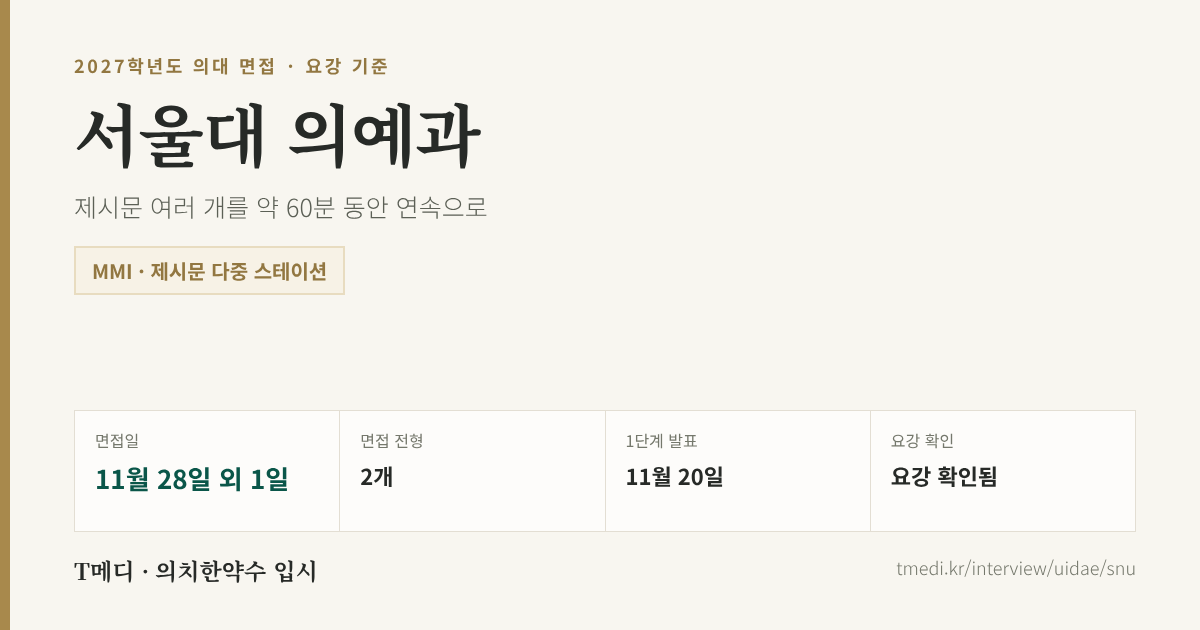
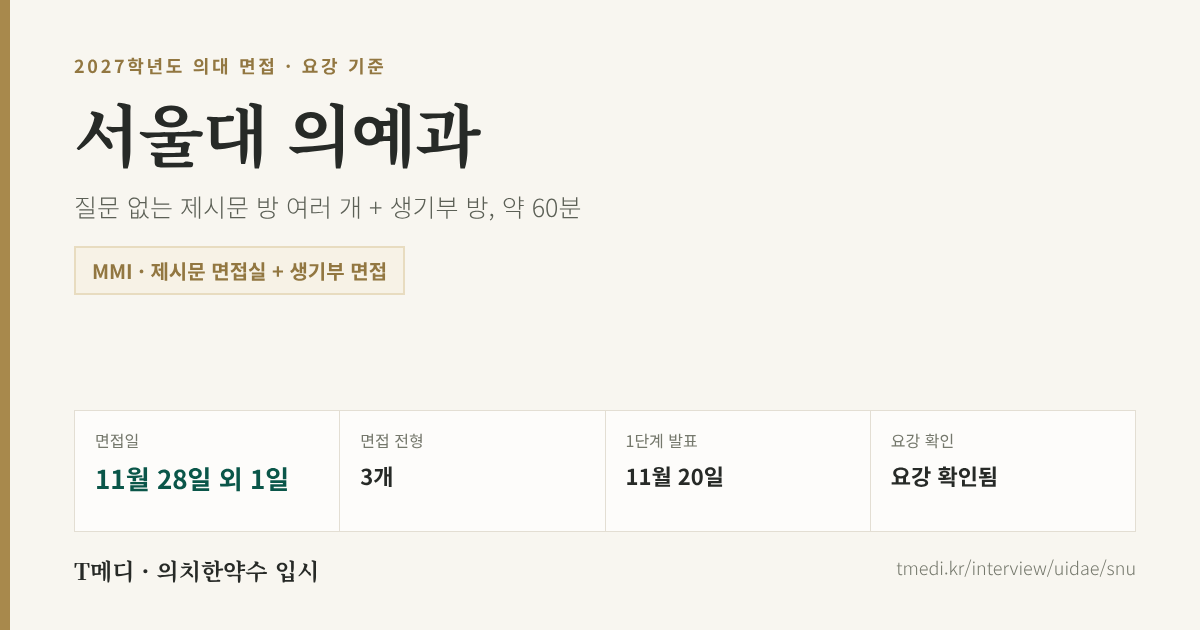
feat(medi): 서울대 의대 — 서류(생기부) 기반 면접 절 신설 + 전형별 비교표 + 기회균형 전형
2027 수시 안내 원문 재확인(2026-11-10)과 보도 확인을 반영했다.
- 서류(생기부) 기반 면접 절: 세 전형 모두 서류 면접실이 따로 있다는 요강 문구(pp.15·23·41),
  의과대학은 '서류내용 확인·학업 소양' 대신 '자질, 적성과 인성'으로 묶은 점, 시간(보도 10분 내외 vs
  기고 18~20분), 26학번 의예과 합격생이 실제 받은 질문(실험 기법을 쓴 이유·알게 된 것·추가로
  궁금한 것), 보도된 질문 유형 + 생기부 항목별 예상 질문과 준비(세특·독서·봉사·지원동기·어려움·일관성)
- 전형별 비교표: 모집인원 39·50·7, 1단계 배수, 2단계 비율, 수능 최저, 발표·면접일, 동점자 처리
  (일반은 면접 순), 면접 방식 문구는 세 전형이 같음. 통합 6년제(p.7)
- 기회균형특별전형(사회통합) 트랙 추가(11.20 발표 → 12.5 면접, 2배수, 70+30)
- 일반전형 요약 줄 오류 정정('2단계 면접 100%' → '1단계 성적 100 + 면접 및 구술고사 100')
- 확인되지 않은 '학생부 10분 · 제시문 2+8분 · 인성1+적성2 · 총 30분' 구성은 싣지 않고 자료의 한계에 적음
- 요약 카드(og/univ/snu.png) 재생성 — 새 제목·형식·면접 전형 3개

Claude-Session: https://claude.ai/code/session_019pnjwjRf8Midm8VYbHCu1f

diff --git a/app/interview/_univ-gichul.tsx b/app/interview/_univ-gichul.tsx
@@ -1,5 +1,5 @@
 import Link from "next/link";
-import { ArrowRight, BookOpenCheck, DoorOpen, FileSearch, ListChecks, Microscope, TrendingUp, Users } from "lucide-react";
+import { ArrowRight, BookOpenCheck, DoorOpen, FileSearch, FileText, ListChecks, Microscope, Table2, TrendingUp, Users } from "lucide-react";
 import { PromoSection } from "../_site/components";
 import {
   GICHUL_FIELD_LABEL,
@@ -286,6 +286,35 @@ export function UnivGichulBlock({ u, field }: { u: UnivGichul; field: GichulFiel
             {b.format2027}
           </div>
         )}
+        {b.table && (
+          <div className="mx-auto mb-10 max-w-4xl">
+            <p className="eyebrow flex items-center gap-2 text-brass-600">
+              <Table2 className="h-3.5 w-3.5" strokeWidth={1.75} />
+              {b.table.title}
+            </p>
+            <div className="mt-4 overflow-x-auto">
+              <table className="w-full min-w-[36rem] border-collapse text-left text-[13px]">
+                <thead>
+                  <tr className="border-b border-hair-strong text-ink-500">
+                    {b.table.head.map((h) => (
+                      <th key={h} className="py-3 pr-4 font-medium">{h}</th>
+                    ))}
+                  </tr>
+                </thead>
+                <tbody className="font-light text-ink-700">
+                  {b.table.rows.map((r, i) => (
+                    <tr key={i} className="border-b border-hair align-top">
+                      {r.map((c, j) => (
+                        <td key={j} className={`py-3 pr-4 ${j === 0 ? "w-28 font-medium text-ink-900" : ""}`}>{c}</td>
+                      ))}
+                    </tr>
+                  ))}
+                </tbody>
+              </table>
+            </div>
+            {b.table.note && <p className="mt-3 text-[12px] font-light leading-[1.7] text-ink-500">{b.table.note}</p>}
+          </div>
+        )}
         {(b.structure?.length ?? 0) > 0 && (
           <div className="mx-auto mb-10 max-w-4xl">
             <p className="eyebrow flex items-center gap-2 text-brass-600">
@@ -333,6 +362,56 @@ export function UnivGichulBlock({ u, field }: { u: UnivGichul; field: GichulFiel
                 </li>
               ))}
             </ol>
+          </div>
+        )}
+        {b.docInterview && (
+          <div className="mx-auto mb-12 max-w-4xl border-2 border-jade-600/40 bg-white px-6 py-7 sm:px-8">
+            <p className="eyebrow flex items-center gap-2 text-jade-700">
+              <FileText className="h-3.5 w-3.5" strokeWidth={1.75} />
+              서류(생기부) 기반 면접
+            </p>
+            <p className="display mt-3 text-[1.25rem] leading-snug text-ink-900">{b.docInterview.lead}</p>
+            <div className="mt-6">
+          <div className="mx-auto max-w-4xl">
+            <p className="eyebrow text-brass-600">확인된 사실 — 출처별</p>
+            <ul className="mt-4 divide-y divide-hair border-y border-hair">
+              {b.docInterview.facts.map((f, i) => (
+                <li key={i} className="grid gap-1 py-4 sm:grid-cols-[9rem_1fr] sm:gap-5">
+                  <span className="text-[13px] font-medium text-ink-900">{f.label}</span>
+                  <span className="text-[14px] font-light leading-[1.8] text-ink-700">
+                    {f.text}
+                    <span className="mt-1 block text-[12px] text-ink-400">{f.source}</span>
+                  </span>
+                </li>
+              ))}
+            </ul>
+
+            <p className="eyebrow mt-12 text-brass-600">생기부 항목별 예상 질문과 준비 — T메디 분석</p>
+            <div className="mt-4 overflow-x-auto">
+              <table className="w-full min-w-[40rem] border-collapse text-left text-[13px]">
+                <thead>
+                  <tr className="border-b border-hair-strong text-ink-500">
+                    <th className="py-3 pr-4 font-medium">생기부 항목</th>
+                    <th className="py-3 pr-4 font-medium">이렇게 물을 수 있다</th>
+                    <th className="py-3 font-medium">준비</th>
+                  </tr>
+                </thead>
+                <tbody className="font-light text-ink-700">
+                  {b.docInterview.expect.map((r, i) => (
+                    <tr key={i} className="border-b border-hair align-top">
+                      <td className="w-28 py-3 pr-4 font-medium text-ink-900">{r.area}</td>
+                      <td className="py-3 pr-4">{r.ask}</td>
+                      <td className="py-3">{r.prep}</td>
+                    </tr>
+                  ))}
+                </tbody>
+              </table>
+            </div>
+            {b.docInterview.note && (
+              <p className="mt-4 text-[12px] font-light leading-[1.7] text-ink-500">{b.docInterview.note}</p>
+            )}
+          </div>
+            </div>
           </div>
         )}
         {qs.length > 0 && (

diff --git a/lib/mmi-schedule.ts b/lib/mmi-schedule.ts
@@ -490,8 +490,11 @@ export const UNIVS: Univ[] = [
     format: [
       "상황/제시문 기반 면접과 서류 기반 면접을 복수의 면접실에서 진행(60분 내외) · 상황 숙지를 위한 답변준비 시간을 별도로 줄 수 있음 (2027 수시 안내 p.16)",
       "방 수는 요강에 없다 — 후기로는 제시문 방 4개(각 10분, 읽기 약 2분) + 학생부 방 1개(18~20분)로 알려져 있다(사교육 업체 언론 기고, 2026.9)",
-      "지역균형: 1단계 서류 100%(3배수) → 2단계 1단계 성적 70% + 면접 30%",
-      "일반전형: 1단계 서류 100%(2배수) → 2단계 면접 및 구술고사 100%",
+      "지역균형(39명): 1단계 서류 100%(3배수) → 2단계 1단계 성적 70 + 면접 30 · 수능 최저 4개 영역 중 3개 등급 합 7 이내",
+      "일반전형(50명): 1단계 서류 100%(2배수) → 2단계 1단계 성적 100 + 면접 및 구술고사 100 · 수능 최저 없음 · 동점이면 면접 순",
+      "기회균형(사회통합, 7명): 1단계 서류 100%(2배수) → 2단계 1단계 성적 70 + 면접 30 · 수능 최저 없음",
+      "면접 방식 문구는 세 전형이 글자까지 같다 — 지역균형·기회균형은 '면접', 일반은 '면접 및 구술고사'로 부를 뿐 (2027 수시 안내 pp.15·23·41)",
+      "2027학년도 신입생부터 의과대학은 통합 6년제(의학과)로 선발 (p.7)",
     ],
     drills: [
       "질문 없는 제시문 — 2분 안팎에 '이 글이 묻는 것'을 스스로 정하고, 요지 → 쟁점 → 내 판단 → 의료로의 연결 순서로 말하는 훈련",
@@ -523,6 +526,18 @@ export const UNIVS: Univ[] = [
         interview: "2026-11-28",
         multiple: "2배수",
         weight: "1단계 서류 100(2배수) → 2단계 1단계 성적 100 + 면접 및 구술고사 100",
+        minimum: "미적용",
+      },
+      {
+        // 2027 수시 안내 pp.4·37·40·41 (2026-11-10 확인) — 모집 7명
+        id: "snu-gihoe",
+        name: "기회균형특별전형(사회통합)",
+        mmi: true,
+        announce: "2026-11-20",
+        announceNote: "18:00 이후 발표",
+        interview: "2026-12-05",
+        multiple: "2배수",
+        weight: "1단계 서류 100 → 2단계 1단계 70 + 면접 30",
         minimum: "미적용",
       },
     ],

diff --git a/lib/univ-gichul.ts b/lib/univ-gichul.ts
@@ -63,6 +63,15 @@ export type GichulFieldScope = {
   structure?: { item: string; official: string; report?: string }[];
   /** 출제 방식 분석 */
   method?: { point: string; detail: string }[];
+  /** 전형별 비교 같은 자유 표 */
+  table?: { title: string; head: string[]; rows: string[][]; note?: string };
+  /** 서류(생기부) 기반 면접 — 확인된 사실(출처별)과 T메디 예상 질문·준비 */
+  docInterview?: {
+    lead: string;
+    facts: { label: string; text: string; source: string }[];
+    expect: { area: string; ask: string; prep: string }[];
+    note?: string;
+  };
   trend?: { item: string; y2025: string; y2026: string }[];
   trendNote?: string;
   prep?: { step: string; detail: string }[];
